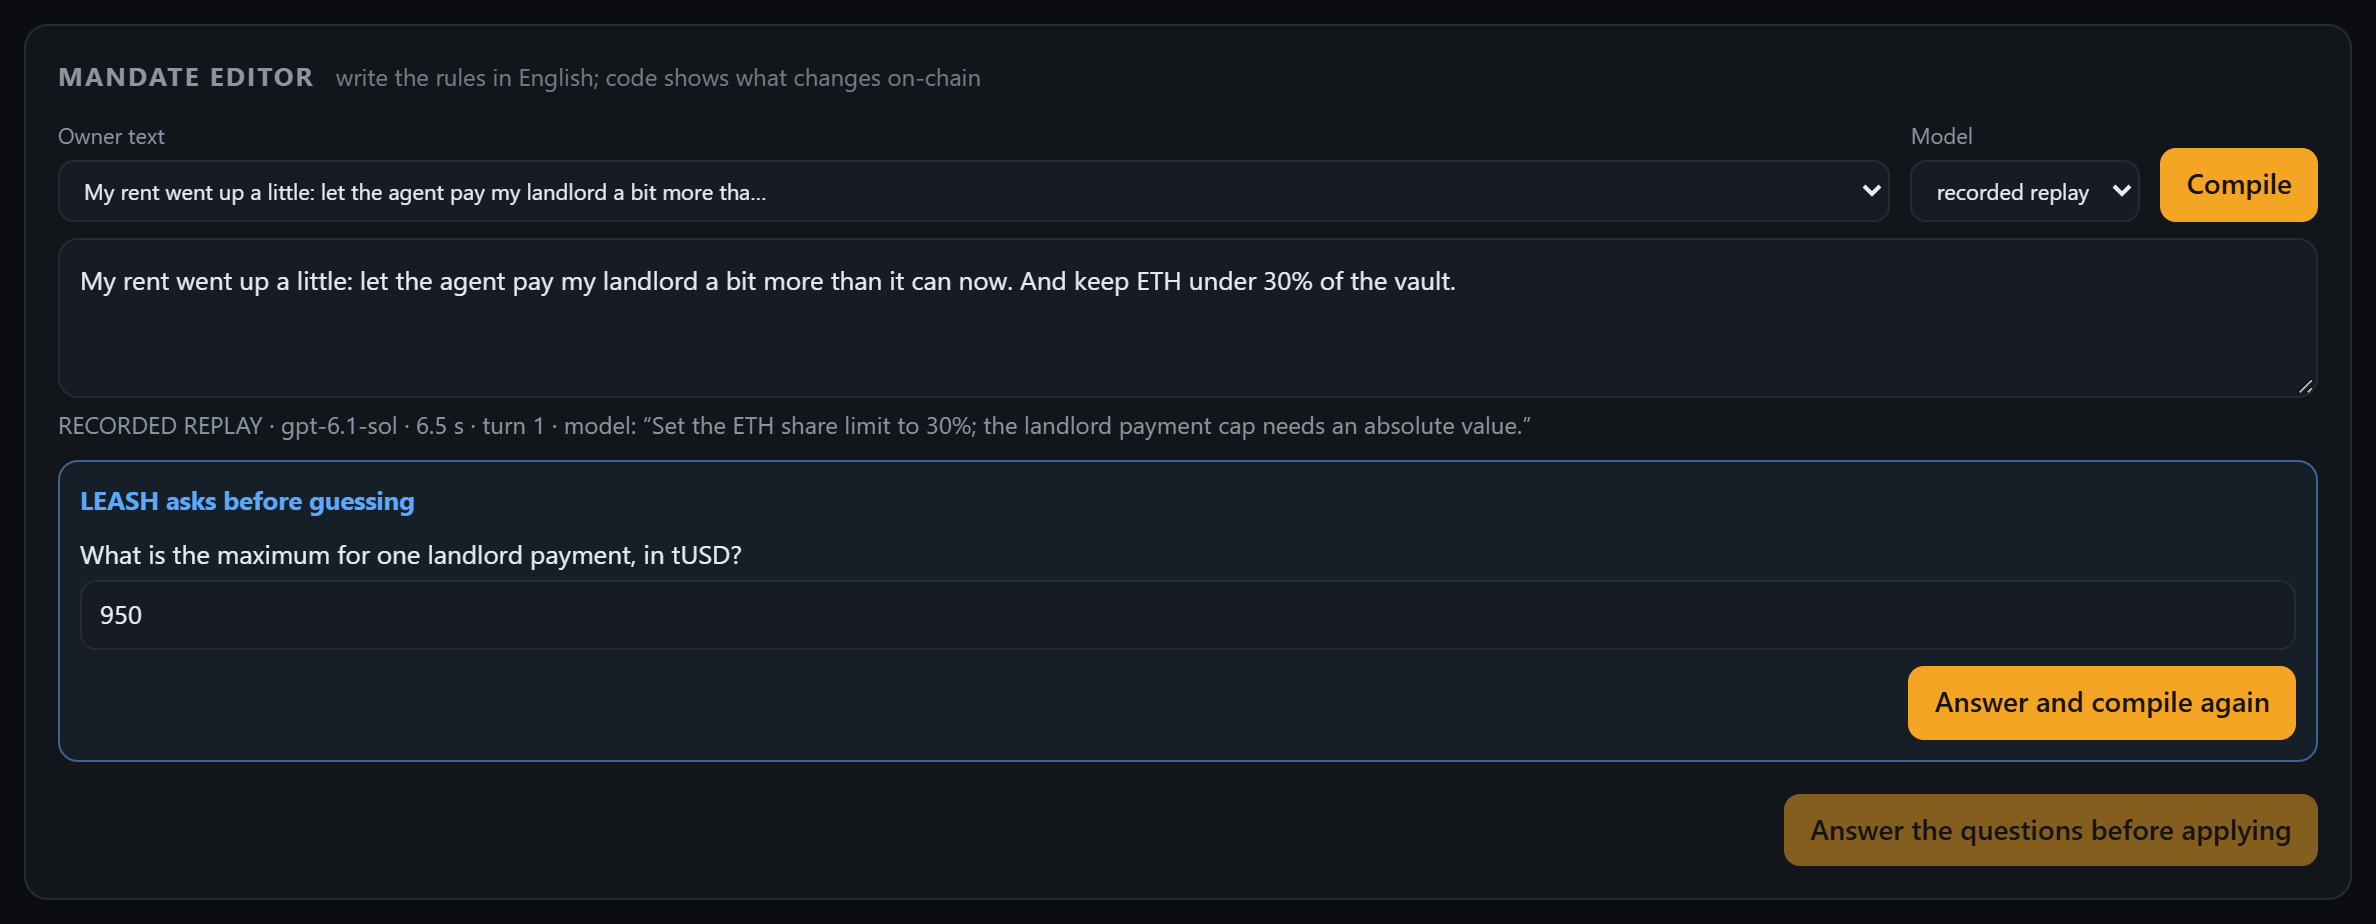
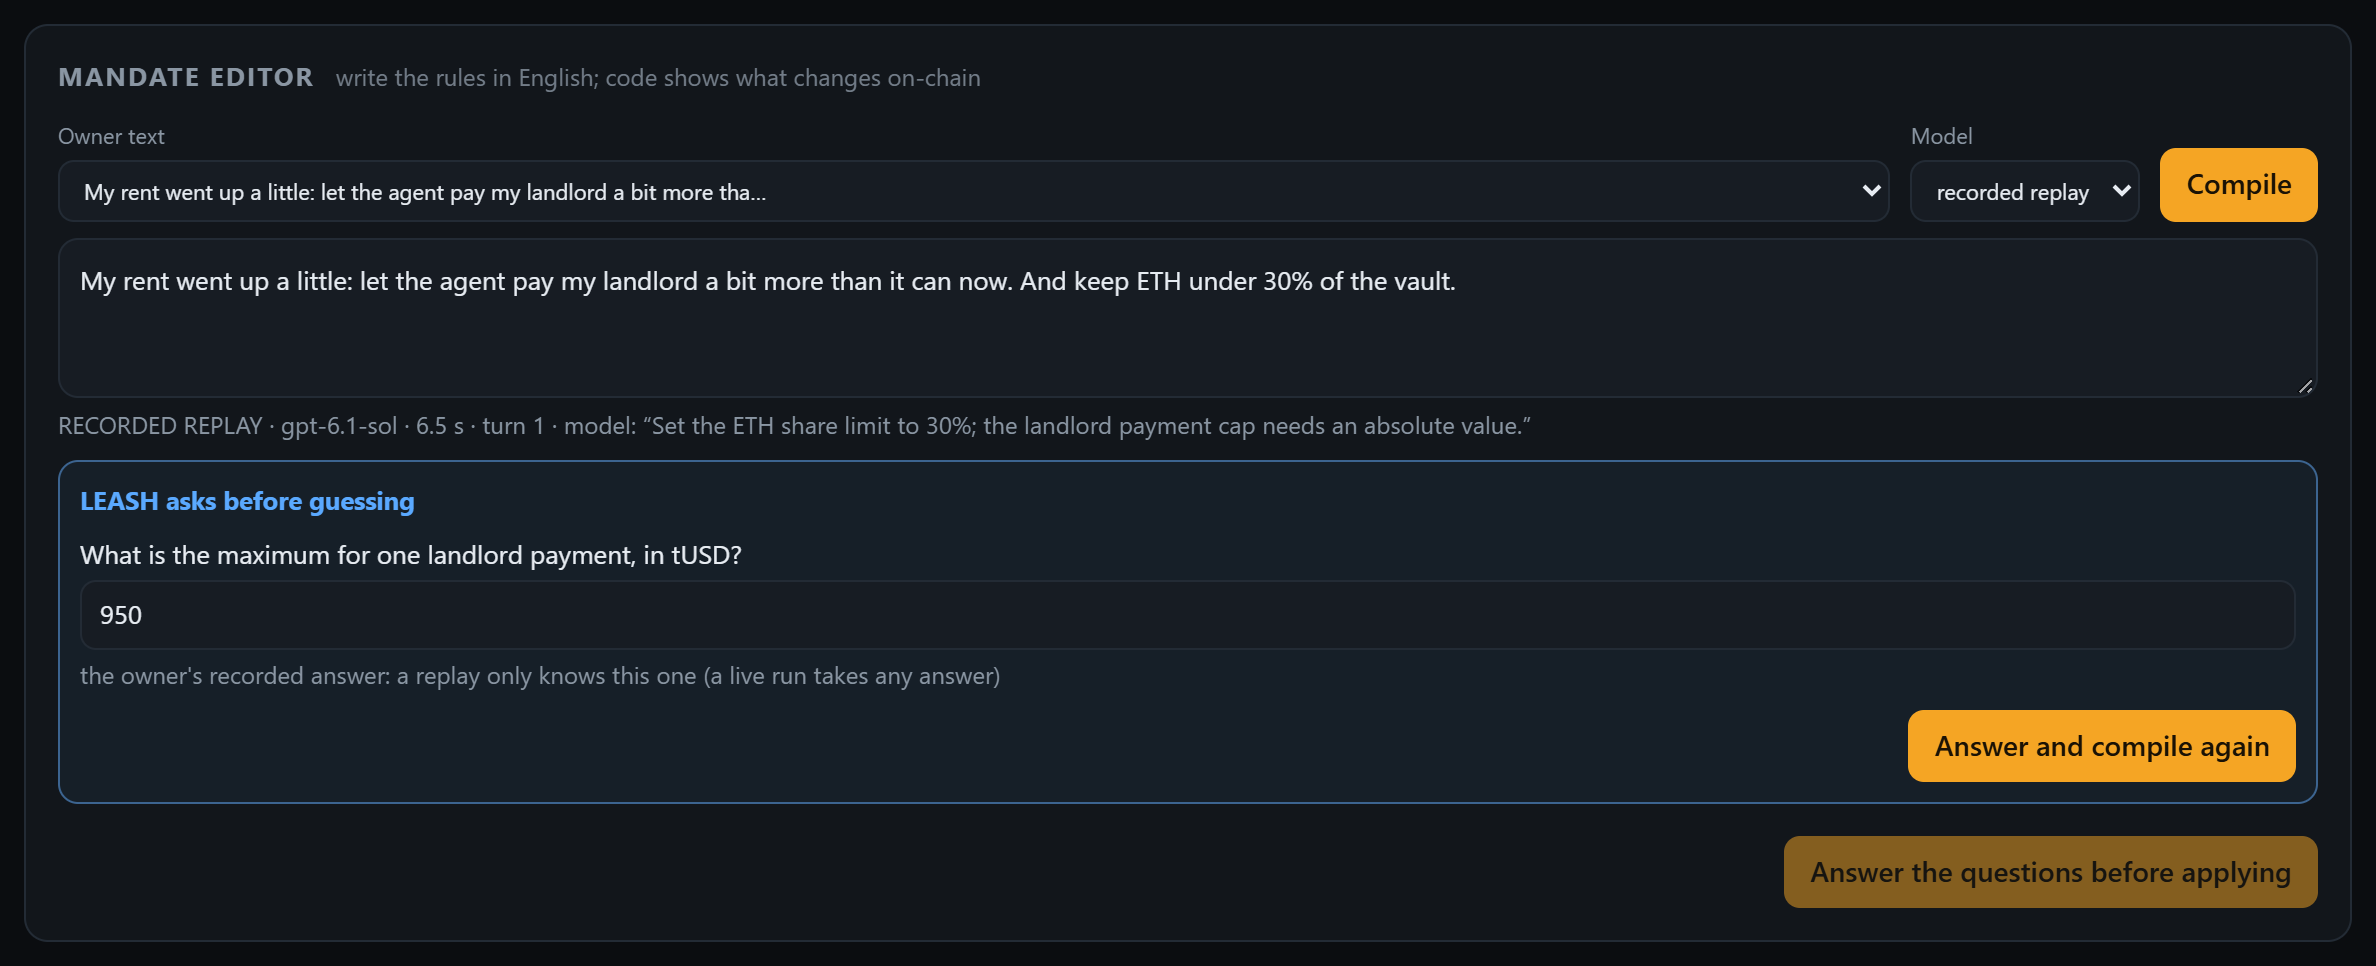
Label the pre-filled answer as recorded; fix the tETH share figure
In replay mode the console pre-fills the answer the run was recorded
with. Without a label, a reader of the screenshot could think the model
chose 950; a note under the field now says it is the owner's recorded
answer. Screenshots re-captured.

TECHNICAL said the second turn tightens the tETH share from 35 to 30 %.
The on-chain mandate is 40 % (config.js); 35 % is the owner's DCA
instruction. Read from the captured diff and fixed.

diff --git a/app/public/app.js b/app/public/app.js
@@ -238,8 +238,12 @@ async function compile(answers) {
   $('cMeta').textContent = `${r.meta.mode} · ${r.meta.model}${r.meta.seconds ? ` · ${r.meta.seconds.toFixed(1)} s` : ''} · turn ${turns} · model: “${r.struct.summary}”`;
   // The model asks instead of guessing a value; a recorded replay pre-fills the answer it was recorded with.
   $('cAsk').hidden = !r.questions.length;
-  $('cQuestions').replaceChildren(...r.questions.map((q) => h('label', {}, q,
-    h('input', { 'data-q': q, value: r.replayAnswers.find((x) => x.q === q)?.a ?? '', required: true, maxlength: 300, autocomplete: 'off' }))));
+  $('cQuestions').replaceChildren(...r.questions.map((q) => {
+    const recorded = r.replayAnswers.find((x) => x.q === q)?.a;
+    return h('label', {}, q,
+      h('input', { 'data-q': q, value: recorded ?? '', required: true, maxlength: 300, autocomplete: 'off' }),
+      recorded != null ? h('span', { class: 'tag' }, 'the owner\'s recorded answer: a replay only knows this one (a live run takes any answer)') : null);
+  }));
   // While a question is open the struct is incomplete (live run mandate-compile-20261015T081246003Z: the model asked
   // for the rent cap and also set it to 0), so no diff is shown until the owner has answered.
   $('diff').hidden = !r.rows.length || r.questions.length > 0;

diff --git a/docs/SUBMISSION.md b/docs/SUBMISSION.md
@@ -23,7 +23,7 @@ Source: the rules page of fintechathon.g-ican.com (`#/rule`, International Track
 | Technical document | [TECHNICAL.md](TECHNICAL.md) | done |
 | Security self-assessment | [SECURITY.md](SECURITY.md): tiers, threat model, 13 attacks + 2 policy cases, R1–R15 | done |
 | Code, README, deploy instructions, tests | repo root, [README](../README.md) | done locally; GitHub repo not created |
-| Deck, 10 min max | Slides artifact (private), 12 slides, ~8.5 min of notes | Sepolia run 4 numbers and vault in (v13: Blockscout stated as 11 of 12; v15: tiers mapped to bank controls, no KYC or sanctions screening stated; v16: 18 off-chain tests); checked against the README on 2026-10-15; placeholders left: team name, GitHub URL |
+| Deck, 10 min max | Slides artifact (private), 12 slides, ~8.5 min of notes | Sepolia run 4 numbers and vault in (v13: Blockscout stated as 11 of 12; v15: tiers mapped to bank controls, no KYC or sanctions screening stated; v18: 9,800 tUSD asked for, none paid; v19–v20: the mandate editor asks before guessing, 19 off-chain tests); checked against the README on 2026-10-15; placeholders left: team name, GitHub URL |
 | Video, 5 min max, **required** | script in [VIDEO.md](VIDEO.md), 3:30, rehearsed on 2026-10-14 on the local console and on two fresh Sepolia vaults (two console bugs found and fixed) | narrated take not recorded; since 2026-10-15 a person can narrate the recorded take without a new one (`scripts/record-voice.mjs`, step 7). Fallback cut done 2026-10-14 ([VIDEO.md](VIDEO.md#fallback-cut-if-nobody-can-narrate)): `work/demo-sepolia2/leash-demo-sepolia.mp4`, 3:00, recorded on Sepolia (vault `0xe30d…dd82`), synthetic voice, 8 block waits cut and labelled. 91 MB, close to GitHub's 100 MB file limit and too big for an email: send it as a link (see "The submission email"), do not commit it (`work/` is ignored) |
 | Real transaction hashes | [evidence-sepolia.md](evidence-sepolia.md), `evidence/sepolia-campaign-*.json` | done 2026-10-14: run 4 (vault `0x8237…cE80`) at 18/18, chain audit 18/18, Blockscout agreeing on 11 of 12 refusals (its indexer was still stuck on A2's tx 1.2 h after the block: "awaiting_internal_transactions"), Sourcify exact match ×4. Runs 1–3 were 17/18 (harness bugs, SECURITY R15), kept as recorded. Just before submitting, re-run `node scripts/evidence-doc.mjs`: if Blockscout has indexed A2 by then, the doc says so; otherwise the README, SECURITY and this row stay as written |
 

diff --git a/docs/boucle.md b/docs/boucle.md
@@ -348,3 +348,8 @@ Ce ne sont pas des promesses du prompt : c'est le contrat qui refuse. Chaque ref
     - La routine hebdomadaire ne pose toujours aucune question. Je ne l'ai pas fait : il faudrait refaire le plan enregistré, qui sert de référence à toute la vidéo et au run Sepolia. Écrit tel quel dans le README et TECHNICAL §7.
     - Je me suis fié à `el.hidden` pour dire « la boîte est cachée ». **Pour vérifier ce qu'un juré voit, lire le style calculé ou la capture, pas l'état du DOM.**
     - La vidéo ne montre pas encore cette fonction. Je regarde si une prise courte s'insère sans refaire le reste ; sinon elle reste dans le deck et le README.
+- 10:24 (réel, 15/10) — Relecture des captures de 10:20, telles qu'un juré les verra. Deux défauts.
+  - **Le « 950 » pré-rempli.** En replay, la console remplit la réponse enregistrée : sans le dire, un juré peut croire que le modèle a choisi 950. Une mention sous le champ le dit maintenant : « the owner's recorded answer: a replay only knows this one (a live run takes any answer) ».
+  - **Un chiffre faux dans l'entrée de 10:20 et dans TECHNICAL §3.6 :** « ETH 35 → 30 % ». La capture du 2e tour montre 40 % → 30 % : le mandat sur la chaîne est à 40 % (`config.js`), et 35 % est la consigne du propriétaire pour le DCA, pas un réglage. Corrigé dans TECHNICAL ; l'entrée de 10:20 reste telle quelle, cette ligne la corrige.
+  - **Deck v19–v20.** Diapo éditeur : la capture de la question remplace celle de l'adresse redirigée (déjà dans l'encadré), une phrase sur le modèle (« A vague value becomes a question, never a guess »), notes réécrites dans l'ordre de l'écran (134 mots). Diapo preuves : 19 tests hors chaîne. Rendu vérifié par Edge headless avec les vraies captures. Liste des fichiers relue après chaque publish.
+  - **Critique.** J'ai écrit « 35 → 30 » de mémoire, d'après la consigne de la routine, au lieu de lire la ligne du diff que je venais de capturer. C'est la même faute qu'à 02:37. **Un chiffre qui décrit une capture se lit sur la capture.**

diff --git a/docs/TECHNICAL.md b/docs/TECHNICAL.md
@@ -149,7 +149,7 @@ Recorded live runs (`evidence/model-runs/mandate-compile-*`):
 | "let the agent pay my landlord up to 850 … never more than 1,200 a day … keep ETH under 35 % … renew for 7 days … never pay on Sundays" | 6 tightening rows (the agent key goes from 14 days left to 7), 4 owner txs; "never pay anything on Sundays" listed as not enforceable on-chain |
 | "let the agent pay the school by itself, up to 5,000 … 6,000 a day … slippage 3 %" | 3 red rows; blocked: the school cap exceeds the 1,000 per-payment limit |
 | "my landlord has a new wallet, 0x5DF4…: pay the rent there from now on" | the address request is listed as not enforceable; the only `setPayee` uses the registry address |
-| "my rent went up a little: let the agent pay my landlord a bit more than it can now … keep ETH under 30 %" | turn 1: one question, "What is the maximum for one landlord payment, in tUSD?", and no landlord row. Turn 2, answer "950": one red row (landlord 900 → 950) and one tightening row (ETH 35 → 30 %) |
+| "my rent went up a little: let the agent pay my landlord a bit more than it can now … keep ETH under 30 %" | turn 1: one question, "What is the maximum for one landlord payment, in tUSD?", and no landlord row. Turn 2, answer "950": one red row (landlord 900 → 950) and one tightening row (max tETH share 40 → 30 %) |
 
 The three texts that give every value ask nothing. Compilations took 5.5 to 19.5 s (17 recordings).
 
